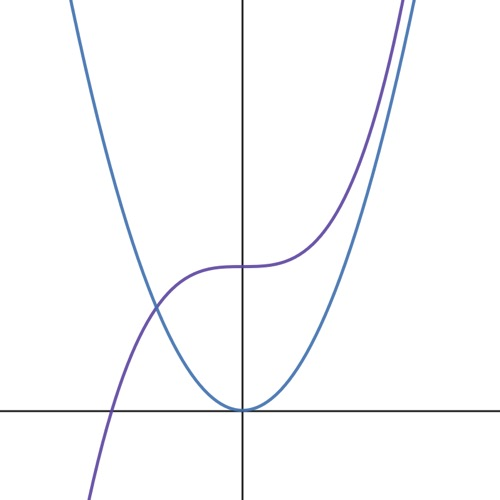
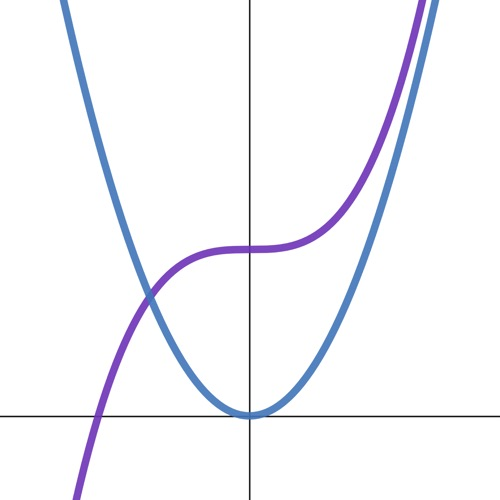
Updated 252

Changed region(s): [[0.0, 0.0, 1.0, 1.0]]

diff --git a/teaching/uo/252/notes/3-antiderivatives/index.html b/teaching/uo/252/notes/3-antiderivatives/index.html
@@ -28,7 +28,7 @@
 
 !begin-text-block
 	
-	We need to take a brief deviation from definite integrals to develop something slightly different. It won&#x2019;t seem to have any relation at first, but in the next section, we&#x2019;ll relate it back to our main goal.
+	We need to take a brief deviation from definite integrals to work on something different. It&#x2019;ll seem completely unrelated at first, but in the next section, we&#x2019;ll connect it back to our main goal.
 	
 !end-text-block
 
@@ -48,7 +48,11 @@
 	
 	antiderivatives
 	
-	$F(x) = \frac{x^3}{3}$ is an antiderivative of $f(x) = x^2$, since $F'(x) = f(x)$. So is $G(x) = \frac{x^3}{3} + 2$, since the $2$ differentiates to zero. Similarly, for any constant $C$, $\frac{x^3}{3} + C$ is an antiderivative of $x^2$. In fact, <strong>all</strong> antiderivatives of $f$ have this form.
+	$F(x) = \frac{x^3}{3}$ is an antiderivative of $f(x) = x^2$, since $\frac{d}{dx} \left[ \frac{x^3}{3} \right] = x^2$. The function $G(x) = \frac{x^3}{3} + 2$ is also an antiderivative, since the $2$ differentiates to zero. Similarly, for any constant $C$, $\frac{x^3}{3} + C$ is an antiderivative of $x^2$.
+	
+	!desmos antiderivative
+	
+	In fact, <strong>all</strong> antiderivatives of $x^2$ are of the form $\frac{x^3}{3} + C$.
 	
 !end-example
 
@@ -64,13 +68,9 @@
 
 
 
-!iframe https://www.desmos.com/calculator/fyariv28tm
-
-
-
 !begin-text-block
 	
-	It&#x2019;d be nice to have some notation to represent the operation of taking an antiderivative &mdash; something akin to $\frac{d}{dx}$. As strange as it might seem right now, we&#x2019;re actually going to use the integral symbol for this &mdash; despite how confusing that is, it&#x2019;ll actually simplify things for us in the end.
+	It&#x2019;d be nice to have some notation to represent the operation of taking an antiderivative &mdash; something like $\frac{d}{dx}$, but in reverse. As strange as it might seem right now, we&#x2019;re actually going to use the integral symbol for this. It may be confusing right now, but in the next section, we&#x2019;ll see why it&#x2019;s the best possible notation we could choose.
 	
 !end-text-block
 
@@ -80,7 +80,13 @@
 	
 	indefinite integral
 	
-	Let $f$ be a function. The <dfn>indefinite integral</dfn> of $f$ is $\int f(x)\ dx = F(x) + C$, where $F$ is an antiderivative of $f$.
+	Let $f$ be a function. The <dfn>indefinite integral</dfn> of $f$ is
+	
+	$$
+		\int f(x)\ dx = F(x) + C,
+	$$
+	
+	where $F$ is an antiderivative of $f$.
 	
 !end-def
 
@@ -88,7 +94,7 @@
 
 !begin-text-block
 	
-	So the only notational difference between the definite integral that measures area under a graph and the indefinite integral that takes an antiderivative is that the former is written with limits of integration &mdash; $\int_a^b f(x)\ dx$ &mdash; and the latter isn&#x2019;t &mdash; $\int f(x)\ dx$. Again, this should seem like an awful choice of notation, but bear with it for now.
+	So the only notational difference between the definite integral that measures area under a graph and the indefinite integral that takes an antiderivative is that definite integrals are written with the two numbers on the integral sign (called <dfn>limits of integration</dfn>), and indefinite integrals are bare. In other words, $\int_a^b f(x)\ dx$ measures area under the graph of $f$ between $x = a$ and $x = b$, and $\int f(x)\ dx$ is an antiderivative of $f$. Let&#x2019;s focus on indefinite integrals for the moment.
 	
 !end-text-block
 
@@ -112,29 +118,29 @@
 	
 	indefinite integrals
 	
-	Find the following.
+	Find the following:
 	
 	$\int \frac{1}{t^2}\ dt$.
 	
 	$\int \sec^2(y)\ dy$.
 	
 	$\int (mx + b)\ dx$.
-	
-	Solutions:
+	<!--
+	<strong>Solutions:</strong>
 	
 	1. $-\frac{1}{t} + C$.
 	
 	2. $\tan(y) + C$.
 	
 	3. $\frac{m}{2}x^2 + bx + C$.
-	
+	-->
 !end-exercise
 
 
 
 !begin-text-block
 	
-	Because derivatives factor through addition and multiplication by a constant, so do antiderivatives.
+	Because derivatives factor through both addition and multiplication by a constant, so do antiderivatives.
 	
 !end-text-block
 
@@ -156,11 +162,14 @@
 	
 	One immediate use of indefinite integrals is to solve <dfn>initial value problems</dfn> &mdash; problems of the form
 	
-	$$y'(x) = f(x)$$
+	$$
+		\begin{align*}
+			y'(x) &= f(x)\\
+			y(x_0) &= y_0
+		\end{align*}
+	$$
 	
-	$$y(x_0) = y_0$$
-	
-	The idea is that we can solve for $y$ by integrating $f(x)$, but that will leave the constant $C$ in our solution, which we can solve for with the second equation (called the <dfn>initial value</dfn>).
+	The idea is that we can solve for $y$ by integrating $f(x)$, but that will leave the constant $C$ in our solution. But then we can solve for $C$ with the second equation (called the <dfn>initial value</dfn>).
 	
 !end-text-block
 
@@ -170,9 +179,19 @@
 	
 	an initial value problem
 	
-	You&#x2019;re driving a car. After $t$ seconds, your velocity in meters per second is given by $v(t) = 3t + 2$. After one second, you've moved $2$ meters. Find a function $s(t)$ that gives your distance traveled after $t$ seconds.
+	A snail is trying its best to get up to cruising speed. After $t$ seconds, its velocity in millimeters per second is given by $v(t) = 3t + 2$, and one second after taking off, it&#x2019;s moved $2$ millimeters. Find a function $s(t)$ that gives its distance in millimeters traveled after $t$ seconds.
 	
-	Since $v'(t) = s(t)$, we have that $s(t) = \int v(t)\ dt = \frac{3}{2}t^2 + 2t + C$. Now since $s(1) = 2$, we can solve for $C$: $\frac{3}{2} + 2 + C = 2$, so $C = -\frac{3}{2}$. In total, $s(t) = \frac{3}{2}t^2 + 2t - \frac{3}{2}$.
+	Since $v'(t) = s(t)$, we have that
+	
+	$$
+		s(t) = \int v(t)\ dt = \frac{3}{2}t^2 + 2t + C.
+	$$
+	
+	Now since $s(1) = 2$, we can solve for $C$: $\frac{3}{2} + 2 + C = 2$, so $C = -\frac{3}{2}$. In total,
+	
+	$$
+		s(t) = \frac{3}{2}t^2 + 2t - \frac{3}{2}.
+	$$
 	
 !end-example
 
@@ -182,16 +201,16 @@
 	
 	an initial value problem
 	
-	You throw a ball straight up. Acceleration due to gravity is always $a(t) = -9.81 \frac{m}{s^2}$. The ball leaves your hand $1$ meter off the ground with a velocity of $2 \frac{m}{s}$. Find a function $h(t)$ that gives the height of the ball above the ground $t$ seconds after leaving your hand.
-	
-	Solution: We have $h(0) = 1$ and $v(0) = 2$. Now $v(t) = \int a(t)\ dt = -9.81t + C$, so $v(0) = C = 2$. And
+	For as long as you can remember, your life&#x2019;s purpose has been to throw a baseball at escape velocity. Today, decide to throw it vertically upward, and the fastest you can throw is $4 \frac{m}{s}$. The ball leaves your hand $1$ meter off the ground, and acceleration due to gravity is (sadly) always $a(t) = -9.81 \frac{m}{s^2}$. Find a function $h(t)$ that gives the height of the ball above the ground in meters $t$ seconds after leaving your hand.
+	<!--
+	Solution: We have $h(0) = 1$ and $v(0) = 4$. Now $v(t) = \int a(t)\ dt = -9.81t + C$, so $v(0) = C = 4$. And
 	
 	$$
-		h(t) = \int v(t)\ dt = \int (-9.81t + 2)\ dt = -4.905t^2 + 2t + C,
+		h(t) = \int v(t)\ dt = \int (-9.81t + 4)\ dt = -4.905t^2 + 4t + C,
 	$$
 	
-	so $h(0) = C = 1$. Therefore, $h(t) = -4.905t^2 + 2t + 1$.
-	
+	so $h(0) = C = 1$. Therefore, $h(t) = -4.905t^2 + 4t + 1$.
+	-->
 !end-exercise
 
 

diff --git a/teaching/uo/252/notes/3-antiderivatives/scripts/3-antiderivatives.js b/teaching/uo/252/notes/3-antiderivatives/scripts/3-antiderivatives.js
@@ -1,0 +1,23 @@
+!function()
+{
+	let data =
+	{
+		"antiderivative":
+		{
+			bounds: {left: -3, right: 3, bottom: -1, top: 5},
+			
+			expressions:
+			[
+				{latex: String.raw`f(x) = \frac{x^3}{3} + C`, color: DESMOS_PURPLE},
+				{latex: String.raw`f'(x)`, color: DESMOS_BLUE},
+				{latex: String.raw`C = 2`}
+			]
+		}
+	};
+	
+	Page.Load.create_desmos_graphs(data);
+	
+	
+	
+	Page.show();
+}()

diff --git a/teaching/uo/252/notes/3-antiderivatives/scripts/3-antiderivatives.min.js b/teaching/uo/252/notes/3-antiderivatives/scripts/3-antiderivatives.min.js
@@ -1,0 +1,1 @@
+!function(){let t={antiderivative:{bounds:{left:-3,right:3,bottom:-1,top:5},expressions:[{latex:String.raw`f(x) = \frac{x^3}{3} + C`,color:DESMOS_PURPLE},{latex:String.raw`f'(x)`,color:DESMOS_BLUE},{latex:String.raw`C = 2`}]}};Page.Load.create_desmos_graphs(t),Page.show()}();
